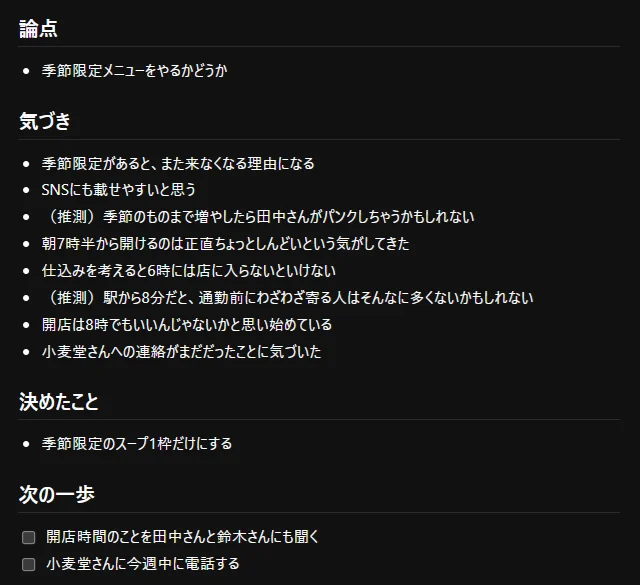
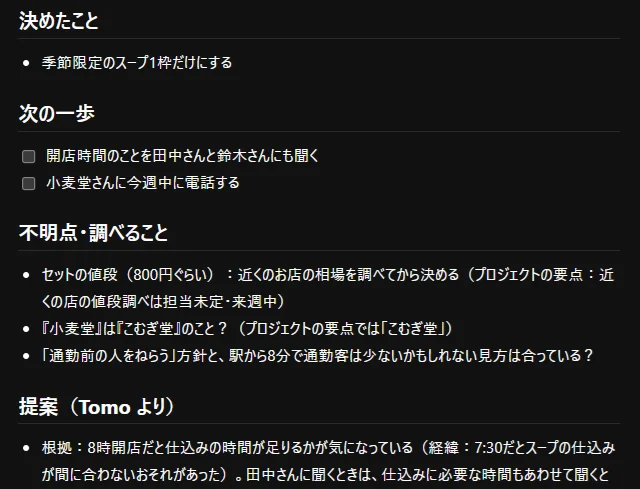
聞き書きモード：まとめ後のスクショを撮り直し版に差し替え
Claude-Session: https://claude.ai/code/session_01BExvdYhih3k83nE2AYXSEs

diff --git a/index.html b/index.html
@@ -175,7 +175,7 @@
         <span class="n"><b>3</b>SUMMARY</span>
         <h3>「Tomo、まとめて」で、整理された案が届く</h3>
         <p>論点・気づき・決めたこと・次の一歩・不明点に整えた案を出します。採用するかは、あなたが決められます。</p>
-        <img src="assets/img/kikigaki/solo-review.webp" alt="まとめたあとのメモ：論点・気づき・決めたこと・次の一歩" loading="lazy" width="640" height="585">
+        <img src="assets/img/kikigaki/solo-review.webp" alt="まとめたあとのメモ：決めたこと・次の一歩・不明点（プロジェクトの要点と照らした確認）・提案" loading="lazy" width="640" height="489">
       </article>
     </div>
 
